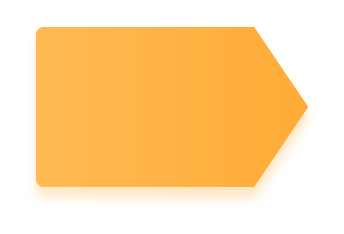
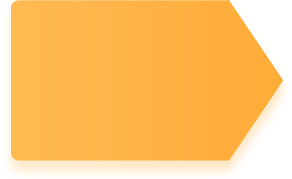
bug修改

diff --git a/application/home/view/pioneer/home.html b/application/home/view/pioneer/home.html
@@ -16,24 +16,25 @@
     .title:nth-child(even) img{
         right: 0;
     }
-   .title:nth-child(even) .writing:after{
+   .title:nth-child(even) .title_box:after{
        content: '';
        display: block;
-       height: 21.3vw;
+       height: 25.3vw;
        width: 2vw;
        background: #fff;
        position: absolute;
-       margin-left: 58vw;
+       margin-left: 59vw;
        z-index: 99;
     }
-    .title:nth-child(odd) .writing:after{
+    .title:nth-child(odd) .title_box:after{
         content: '';
         display: block;
-        height: 21.3vw;
+        height: 25.3vw;
         width: 2vw;
         background: #fff;
         position: absolute;
-        margin-left: -5vw;
+        left: 39vw;
+        z-index: 102;
     }
     .title:nth-child(odd) img{
         clear: both;
@@ -46,8 +47,8 @@
     }
     .title img{
         width: 45.9vw;
-        height: 31.2vw;
-        z-index:2;
+        /*height: 31.2vw;*/
+        z-index:99;
         position: absolute;
     }
 
@@ -56,40 +57,36 @@
         font-size: 10vw;
         position: absolute;
         color: #fff;
-        z-index: 9;
+        z-index: 100;
         height: 21.3vw;
-        line-height: 31.2vw;
-        height: 31.2vw;
+        line-height: 25.3vw;
+        height: 25.3vw;
     }
     .title:nth-child(odd) span{
-        top: 1.4vw;
         left: 13vw;
 
     }
     .title:nth-child(even) span{
         right: 14vw;
-        top: 1.4vw;
     }
 
     /*文字背景*/
     .title .writing{
         width: calc(100% - 45vw);
-        height: 21.3vw;
+        height: 25.3vw;
         background: #fff;
         position: absolute;
         border-radius: 0.1rem;
-        z-index: 99;
+        z-index: 98;
         -moz-box-shadow: 0px 10px 8px #f1f1f1;
         -webkit-box-shadow: 0px 10px 8px #f1f1f1;
         box-shadow: 0px 10px 8px #f1f1f1;
     }
     .title:nth-child(even) .writing{
         left: 4vw;
-        margin-top: 4vw;
     }
     .title:nth-child(odd) .writing{
         left: 41vw;
-        margin-top: 4vw;
     }
 
     /*文字内容*/
@@ -99,13 +96,13 @@
         font-size: 7vw;
     }
     .title:nth-child(even) p{
-        height: 21.3vw;
+        height: 25.3vw;
         right: 45vw;
-        margin-top: 8.5vw;
+        line-height: 25.3vw;
     }
     .title:nth-child(odd) p{
-        height: 21.3vw;
-        margin-top: 8.5vw;
+        height: 25.3vw;
+        line-height: 25.3vw;
         left: 45vw;
     }
     .title:nth-child(1) p{
